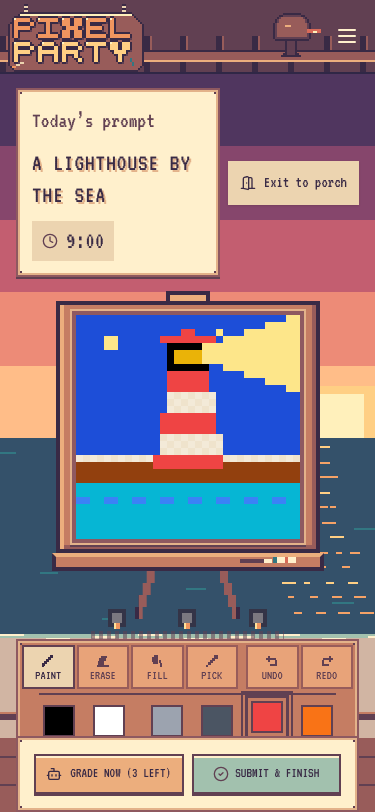
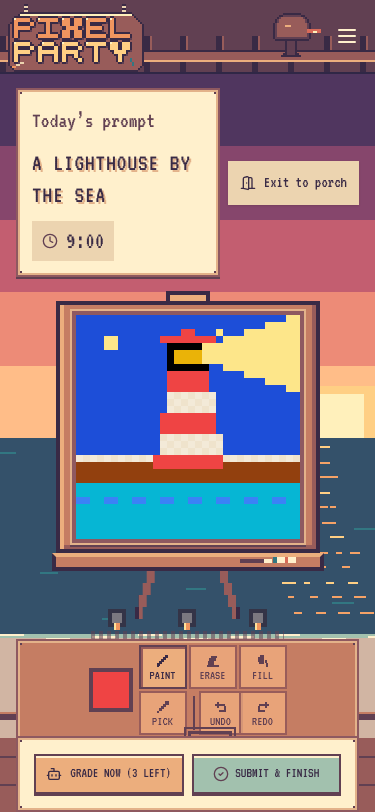
wip(play): wrap mobile tray controls

Changed region(s): [[0.0587, 0.7697, 0.9387, 0.9236]]

diff --git a/src/components/game/PainterTray.css b/src/components/game/PainterTray.css
@@ -16,6 +16,6 @@
 @media (max-width: 767px) {
   .painter-tray { width: 100%; }
   .painter-tray [data-testid="palette"] > div { grid-template-columns: repeat(8, minmax(0, 44px)); }
-  .painter-tray [data-testid="toolbar"] { flex-wrap: wrap; }
+  .painter-tray [data-testid="toolbar"] { display: grid; grid-template-columns: repeat(3, 48px); }
   .painter-tray [data-testid="toolbar"] button { min-width: 44px; }
 }
